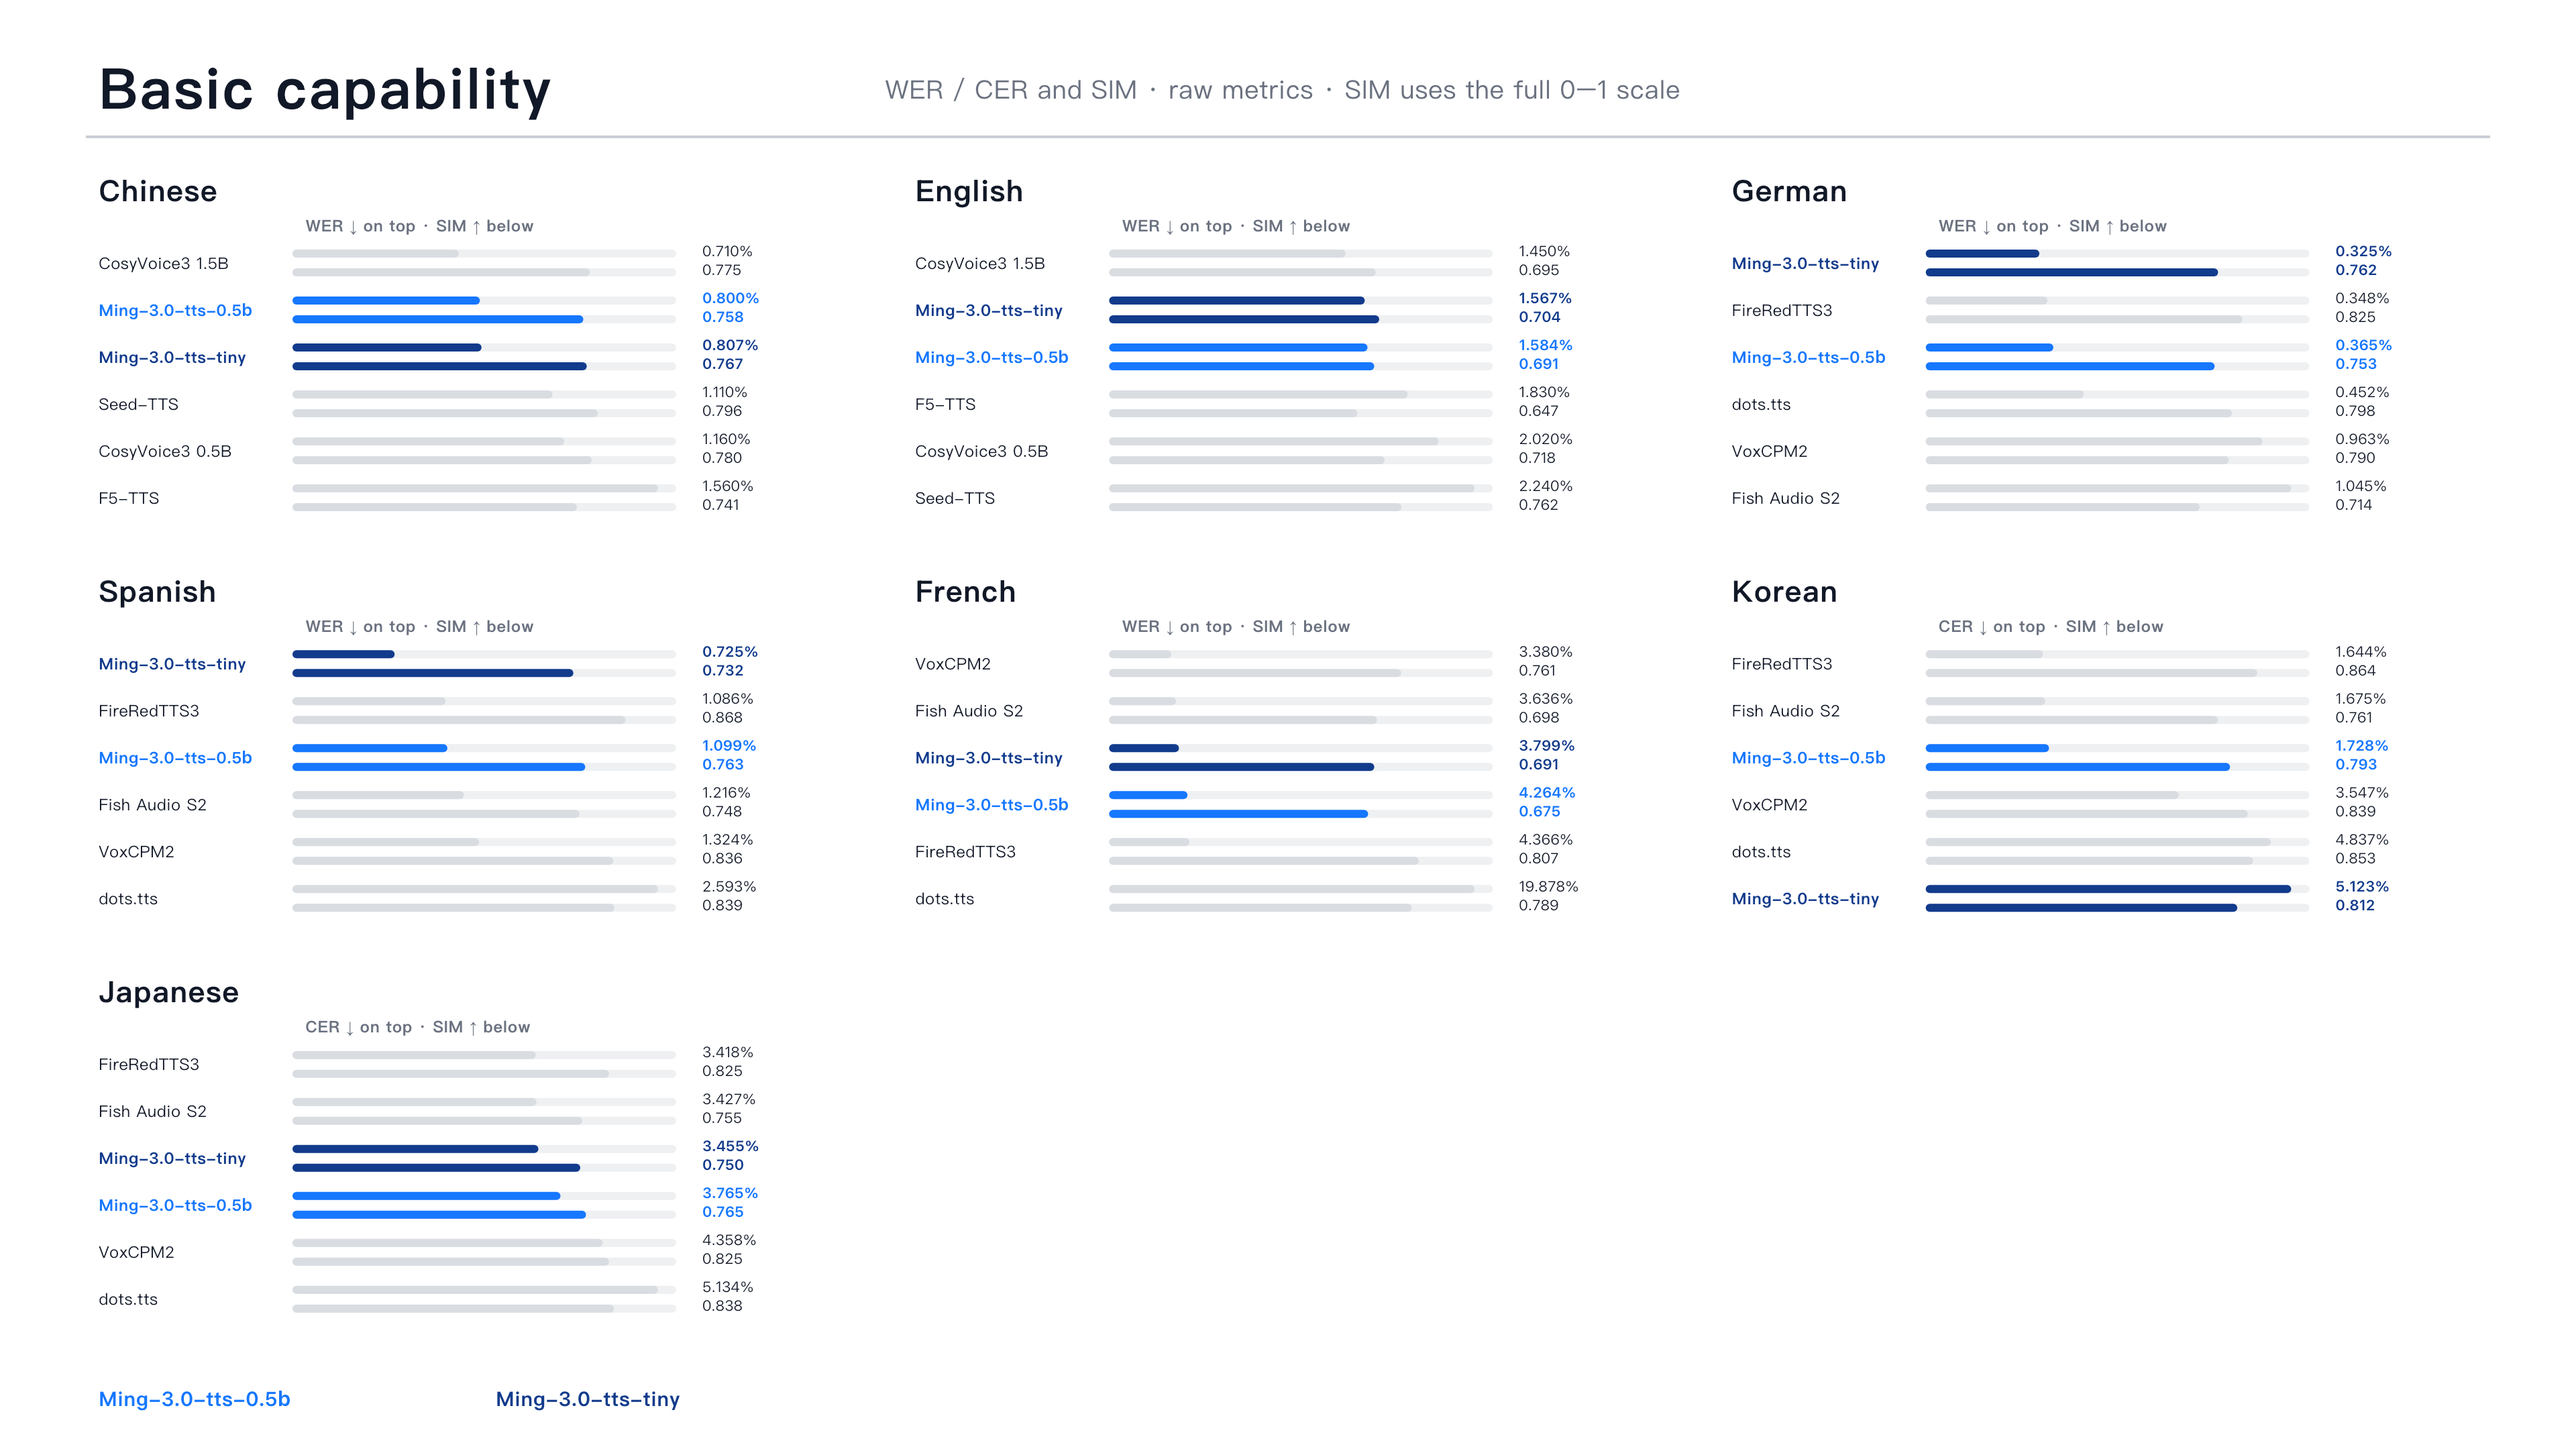
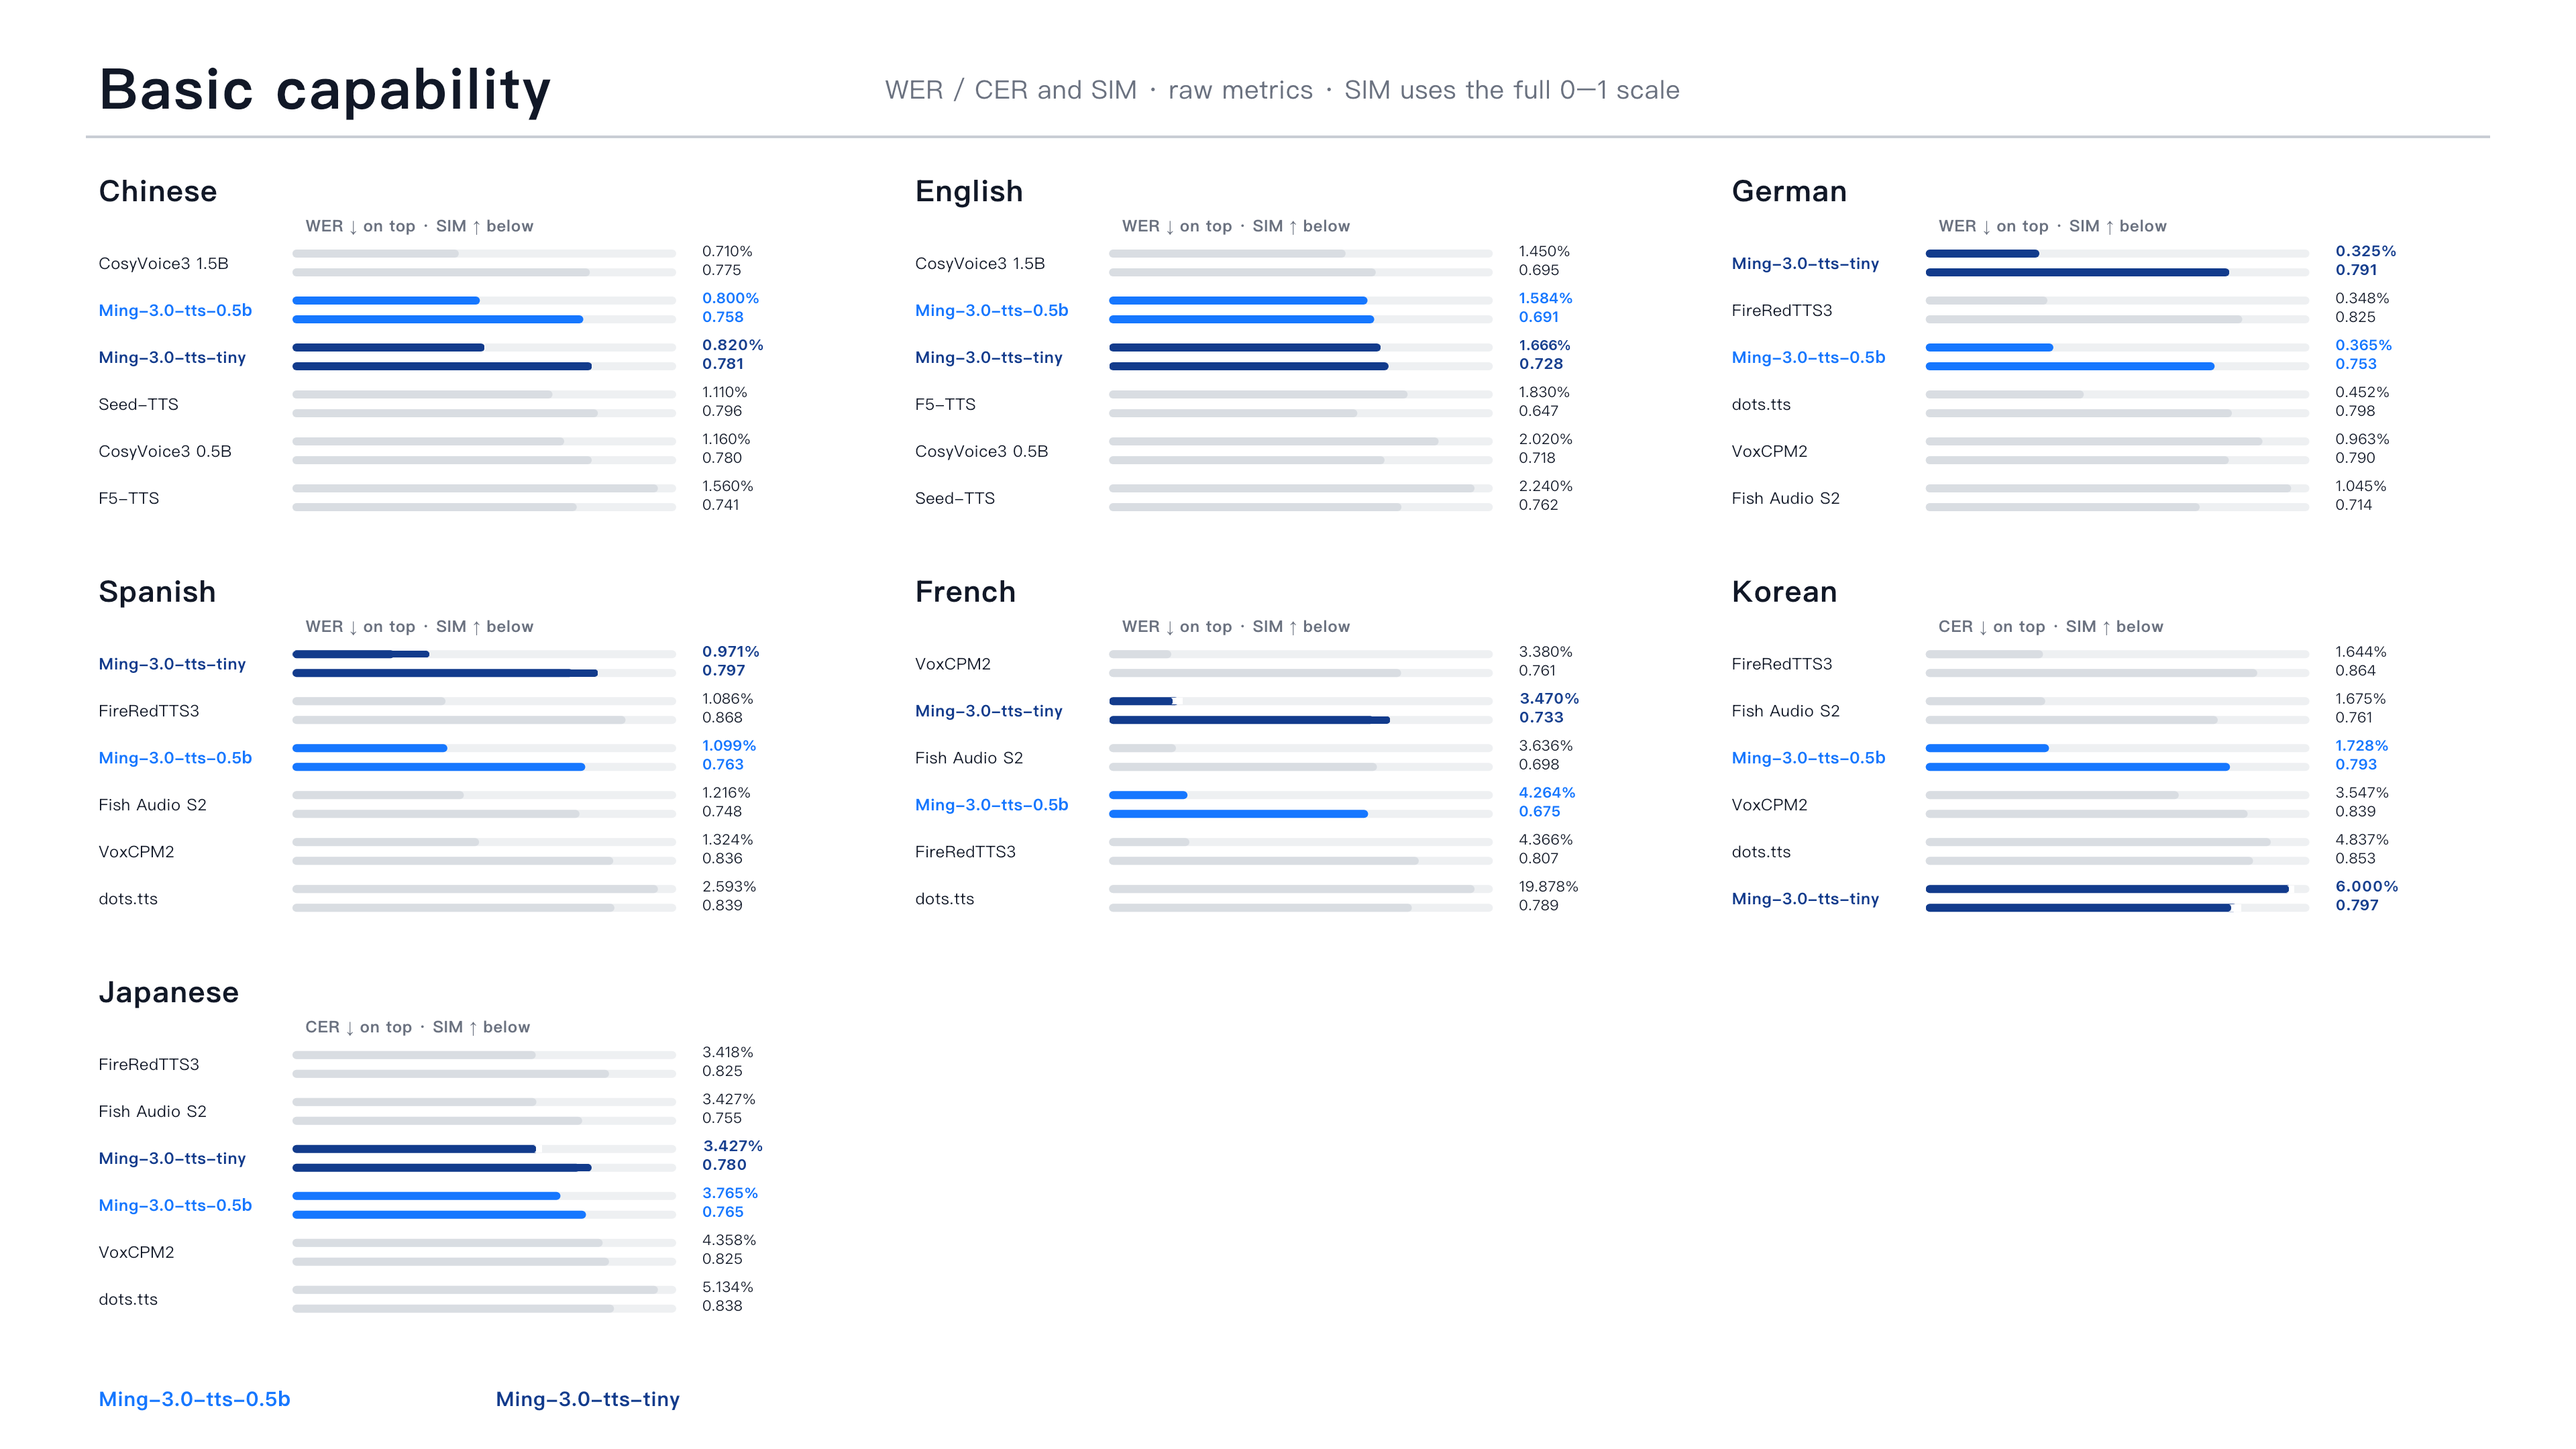
Update tiny numbers on the overview and the basic benchmark chart.

diff --git a/index.html b/index.html
@@ -45,7 +45,7 @@
         <li>🎨 <b>Start from the character, not from a clip.</b> No reference recording that sounds right? Describe the voice: age, texture, temperament, role. Voice Design renders it with no audio at all. Or pick one of 479 built-in Chinese voices and five English ones, also with no audio. Or clone from a short reference. These are three separate calls: a description, a built-in name and a reference clip are not combined, and none of these calls also takes emotion, dialect, speed or a freeform instruction. On InstructTTSEval-ZH, tiny ranks <b>#2</b> among the models compared below on average ACC (74.30%), APS (83.80%) and DSD (80.50%).</li>
         <li>🎬 <b>Direct the line in plain words.</b> <i>"Like telling an old friend about the past: warm, close, a little nostalgic."</i> Freeform is its own task: one instruction, not a voice-design description and not a built-in voice. On 0.5b the instruction can follow a reference clip or, with no reference, choose the voice; tiny always needs the reference clip. It does not take emotion, dialect, speed, pitch, volume or inline tags.</li>
         <li>💬 <b>Laughs and sighs belong in the script.</b> Fourteen inline tags cover breath, cough, sigh, laughter, hesitation, surprise, and question and confirmation particles. They belong to Chinese or English cloning: written where they happen, performed in that reference speaker's voice. They are not accepted on voice design, built-in voices, dialect, emotion, attribute control, or the five new languages. On NVBench, the two variants are <b>SOTA on all six single-tag metrics</b> (Chinese and English CER, PCER, OCER), and tiny is <b>SOTA on all three English multi-tag metrics</b>.</li>
-        <li>🌐 <b>Seven languages on a cloned voice; dialects on their own call.</b> Chinese and English use the cloning task; German, Spanish, French, Korean and Japanese use the multilingual task. One language per call, from a reference clip. Sichuanese and Cantonese are a separate dialect task on a reference voice, with no target-language setting, and that call does not take emotion, speed or tags. <b>SOTA</b> German (0.325%) and Spanish (0.725%) WER (tiny); <b>SOTA</b> Sichuanese CER and dialect accuracy on both WSC-Eval-TTS sets; <b>SOTA</b> Cantonese CER (6.15%) and dialect accuracy (98.00%) on WSYue-TTS-eval-Base (0.5b).</li>
+        <li>🌐 <b>Seven languages on a cloned voice; dialects on their own call.</b> Chinese and English use the cloning task; German, Spanish, French, Korean and Japanese use the multilingual task. One language per call, from a reference clip. Sichuanese and Cantonese are a separate dialect task on a reference voice, with no target-language setting, and that call does not take emotion, speed or tags. <b>SOTA</b> German (0.325%) and Spanish (0.971%) WER (tiny); <b>SOTA</b> Sichuanese CER and dialect accuracy on both WSC-Eval-TTS sets; <b>SOTA</b> Cantonese CER (6.15%) and dialect accuracy (98.00%) on WSYue-TTS-eval-Base (0.5b).</li>
         <li>🎚 <b>Control when it matters.</b> Emotion is one task (<code>高兴</code>, <code>悲伤</code>, <code>愤怒</code>, <code>恐惧</code>, <code>厌恶</code>, <code>惊讶</code>, <code>中性</code>). Speed, pitch and volume are a different task and are set together (<code>慢速</code> / <code>中速</code> / <code>快速</code>, pitch and volume <code>低</code> / <code>中</code> / <code>高</code>). Neither task takes a target language, a dialect, tags, or a designed or built-in voice. 0.5b is <b>SOTA</b> on average attribute accuracy (93.30%), pitch accuracy (86.00%) and WER (0.317%), and <b>#2</b> on speed (99.00%). On CV3 emotion, tiny is <b>SOTA</b> on text-related Happy (100%) and Sad (88%) and 0.5b on Angry (94%); tiny's 74.30% average ranks <b>#2</b>.</li>
         <li>🎙 <b>A whole conversation, not stitched lines.</b> Give tiny one short reference per speaker and a <code>speaker_1:</code> / <code>speaker_2:</code> script, and it performs the dialogue in one pass, turn-taking included. Podcast does not take a target language, emotion, dialect or tags. <b>SOTA</b> 1.85% CER on the podcast benchmark (tiny).</li>
       </ul>
